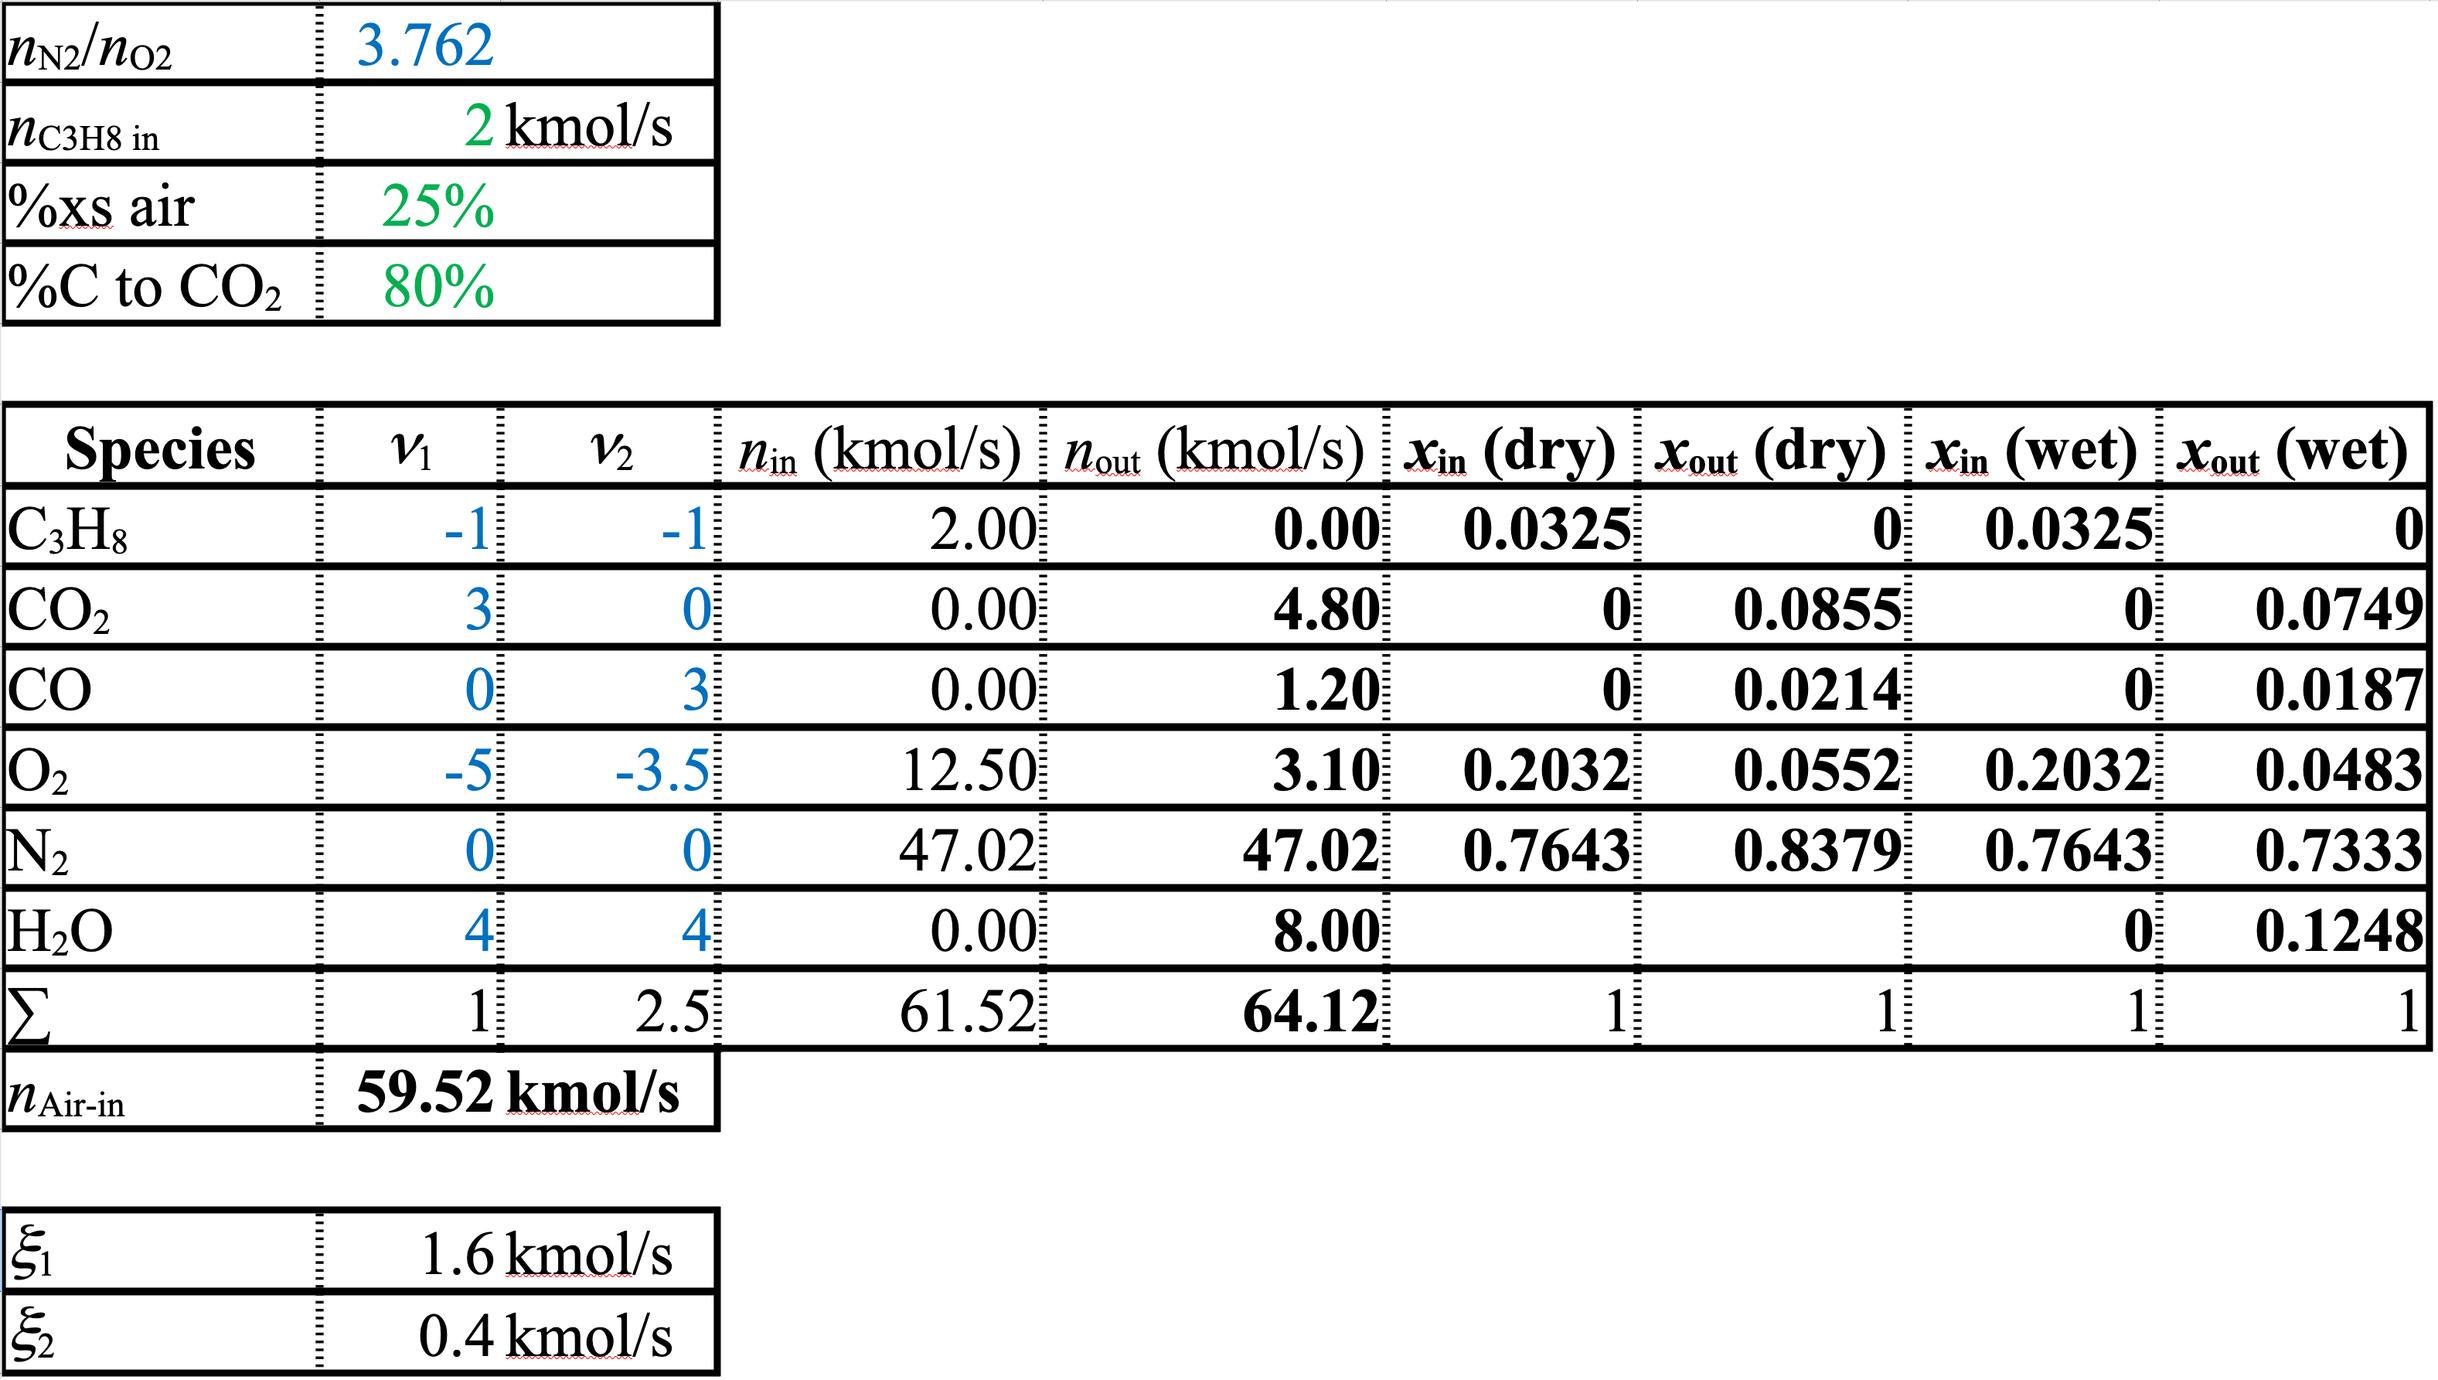
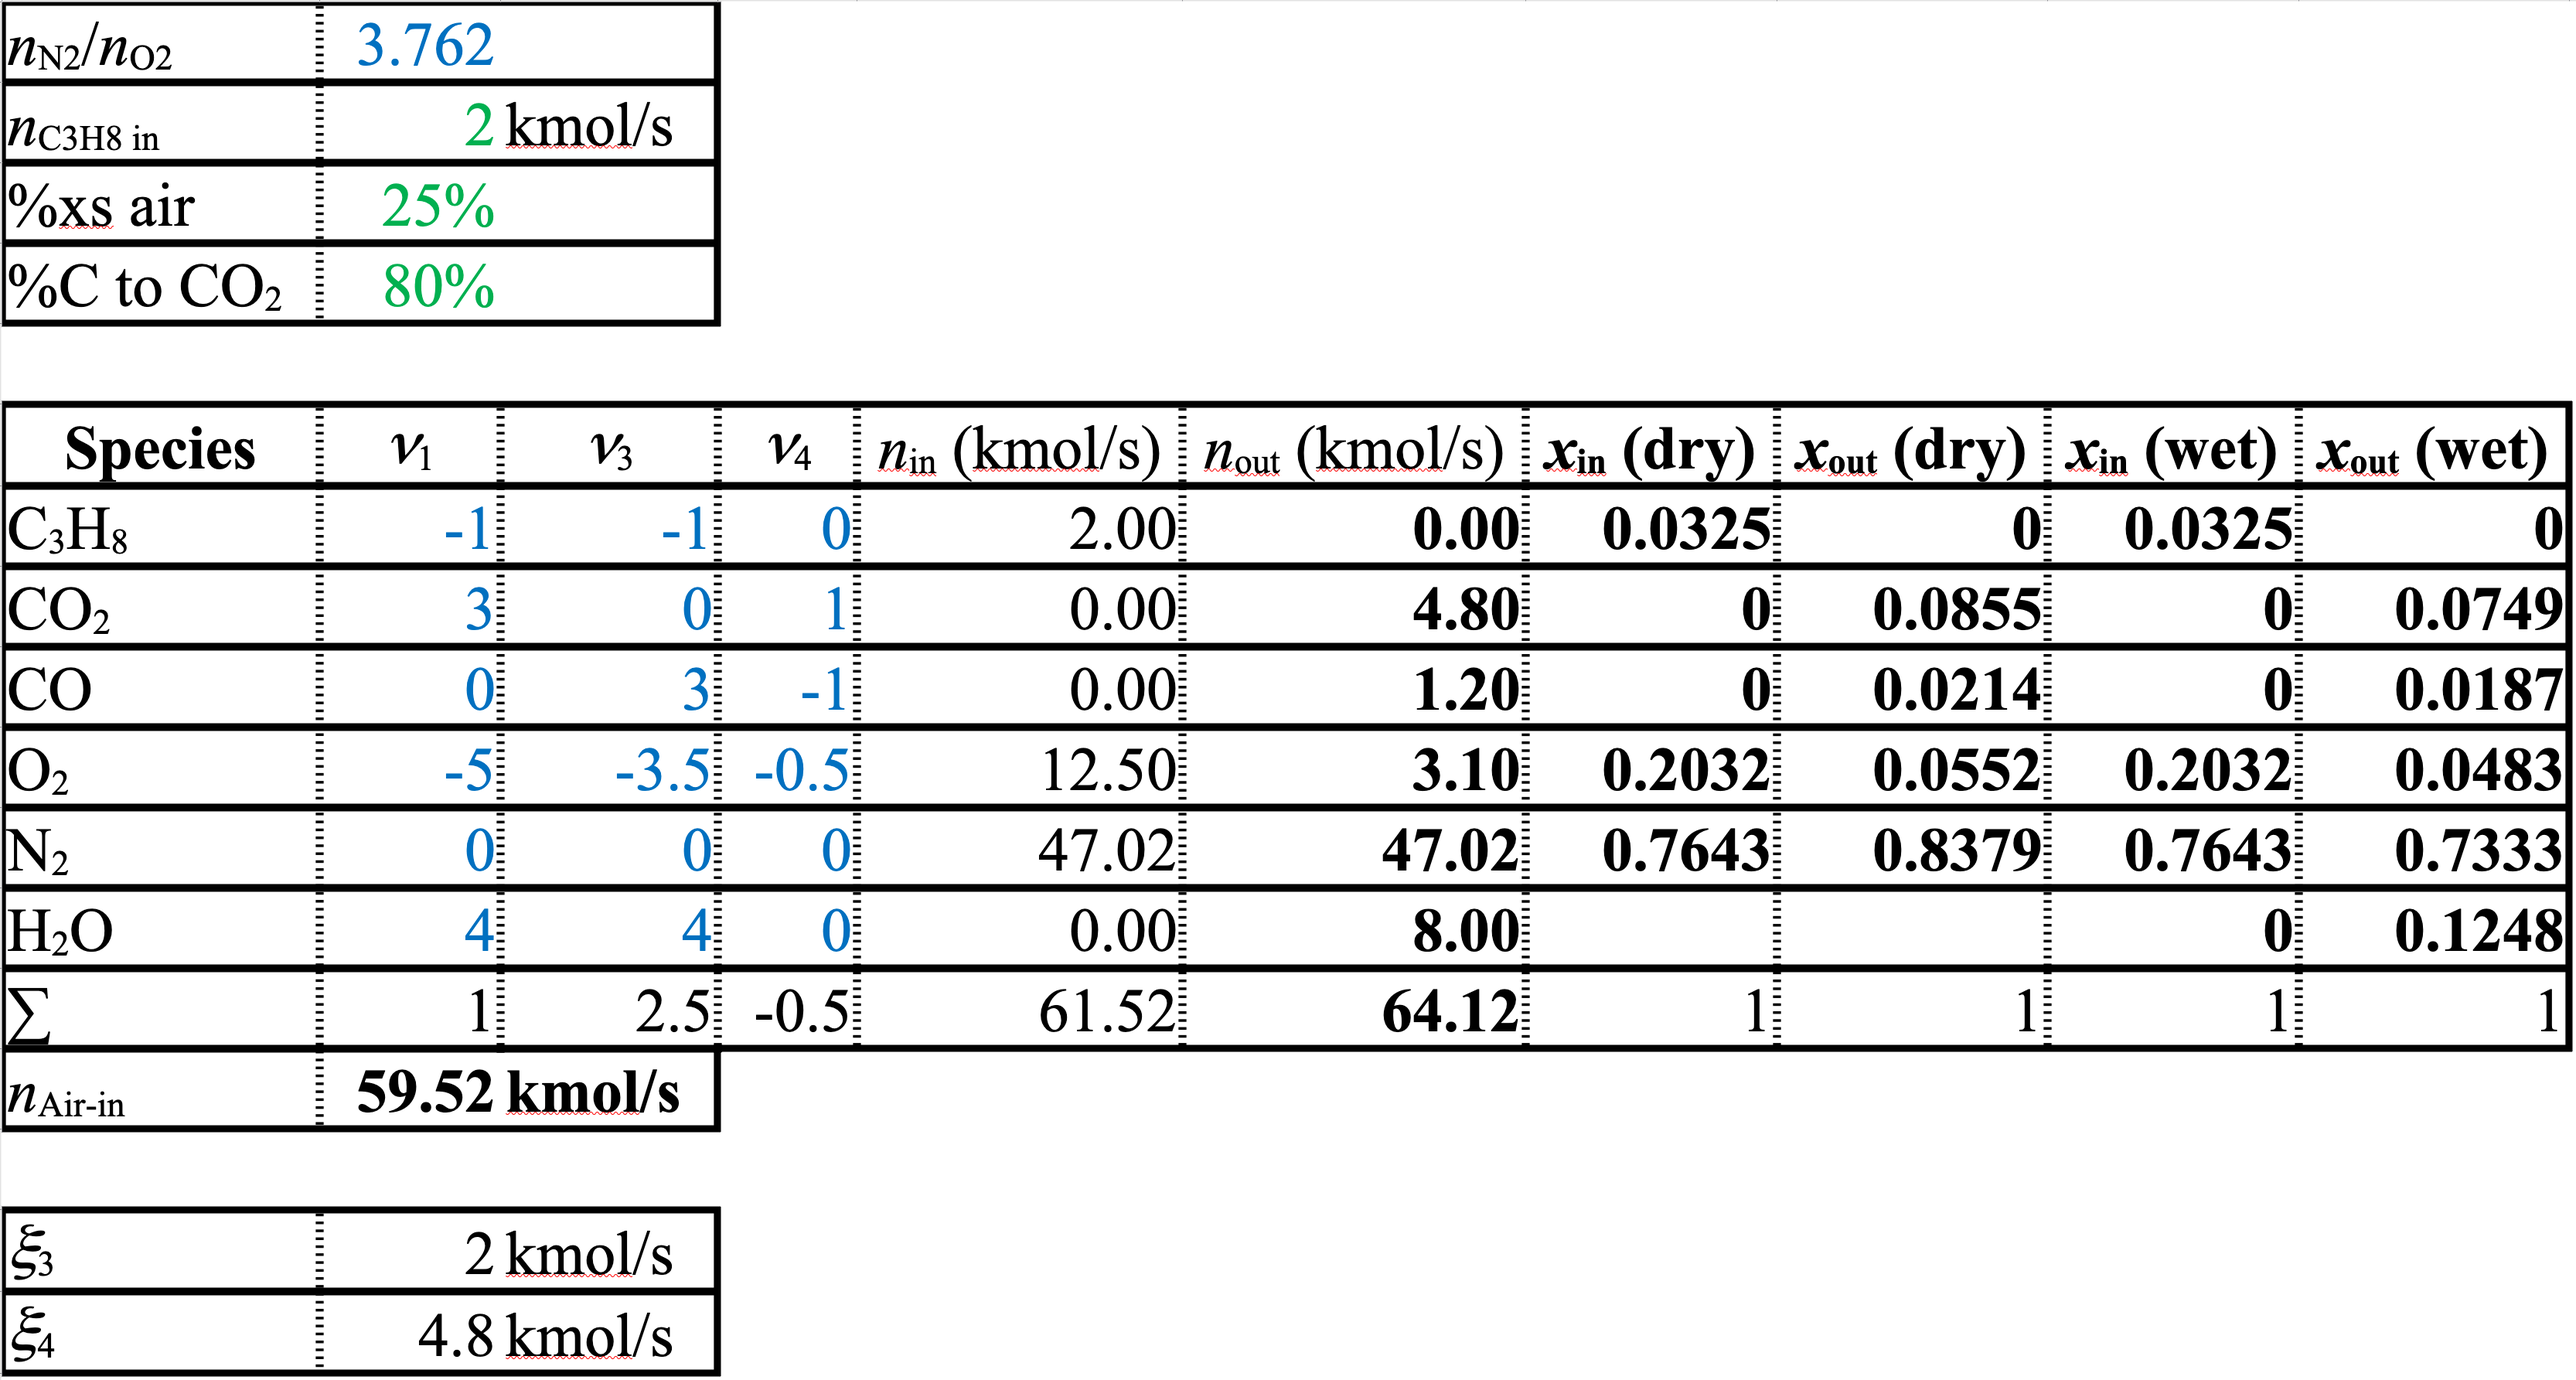
Built site for gh-pages

diff --git a/balances/material/CombRxnsPart2JTFVisuals.html b/balances/material/CombRxnsPart2JTFVisuals.html
@@ -190,7 +190,7 @@
 </div>
 <div class="fragment">
 <p><span class="math display">\[
-\dot{n}_\text{Air-in} = \dot{n}_\mathrm{O_2in} + \dot{n}_\mathrm{N_2in} = 12.5 + 47.0 = 59.5\ \mathrm{kmol/s}
+\dot{n}_\text{Air-in} = \dot{n}_\mathrm{O_2in} + \dot{n}_\mathrm{N_2in} = 12.5 + 47.0 = \boxed{  59.5\ \mathrm{kmol/s}}
 \]</span></p>
 </div>
 </section>
@@ -219,7 +219,7 @@
 </div>
 <div class="fragment">
 <p><span class="math display">\[
-\dot{n}_\mathrm{N_2out} = \dot{n}_\mathrm{N_2in} + 0 \boldsymbol{\cdot} \dot{\xi}_1 +0 \boldsymbol{\cdot}  \dot{\xi}_2 = 47.0\ \mathrm{kmol/s}
+\dot{n}_\mathrm{N_2out} = \dot{n}_\mathrm{N_2in} + 0 \boldsymbol{\cdot} \dot{\xi}_1 +0 \boldsymbol{\cdot}  \dot{\xi}_2 = \boxed{ 47.0\ \mathrm{kmol/s} }
 \]</span></p>
 </div>
 <div class="fragment">
@@ -248,22 +248,22 @@
 </div>
 <div class="fragment">
 <p><span class="math display">\[
-\implies \dot{n}_\mathrm{CO_2out} = 3 \boldsymbol{\cdot} 1.6\ \mathrm{kmol/s} = 4.8\ \mathrm{kmol/s},
+\implies \dot{n}_\mathrm{CO_2out} = 3 \boldsymbol{\cdot} 1.6\ \mathrm{kmol/s} = \boxed{ 4.8\ \mathrm{kmol/s} },
 \]</span></p>
 </div>
 <div class="fragment">
 <p><span class="math display">\[
-\dot{n}_\mathrm{COout} = 3 \boldsymbol{\cdot} 0.4\ \mathrm{kmol/s} = 1.2\ \mathrm{kmol/s}
+\dot{n}_\mathrm{COout} = 3 \boldsymbol{\cdot} 0.4\ \mathrm{kmol/s} = \boxed{ 1.2\ \mathrm{kmol/s} }
 \]</span></p>
 </div>
 <div class="fragment">
 <p><span class="math display">\[
-\dot{n}_\mathrm{O_2out} = 12.5\ \mathrm{kmol/s} - 5 \boldsymbol{\cdot} 1.6 - 3.5 \boldsymbol{\cdot} 0.4 = 3.10\ \mathrm{kmol/s}
+\dot{n}_\mathrm{O_2out} = 12.5\ \mathrm{kmol/s} - 5 \boldsymbol{\cdot} 1.6 - 3.5 \boldsymbol{\cdot} 0.4 = \boxed{ 3.10\ \mathrm{kmol/s} }
 \]</span></p>
 </div>
 <div class="fragment">
 <p><span class="math display">\[
-\dot{n}_\mathrm{H_2Oout} = 4 \boldsymbol{\cdot} 1.6 + 4 \boldsymbol{\cdot} 0.4 = 8.00\ \mathrm{kmol/s}
+\dot{n}_\mathrm{H_2Oout} = 4 \boldsymbol{\cdot} 1.6 + 4 \boldsymbol{\cdot} 0.4 = \boxed{ 8.00\ \mathrm{kmol/s} }
 \]</span></p>
 </div>
 </section>
@@ -351,25 +351,11 @@ x_{i\ (\mathrm{wet})} = \frac{\dot{n}_i}{\sum \dot{n}_j}
 </section>
 <section id="solution-cont.-7" class="slide level2">
 <h2>Solution (cont.)</h2>
-<p>To get the dry and wet compositions, divide the species molar flow rate by either the sum of the species molar flow rates minus the water flow rate, or by the sum of the species molar flow rates. The results are on the spreadsheet.</p>
-<div class="fragment">
-<p><span class="math display">\[
-x_{i\ (\mathrm{dry})} = \frac{\dot{n}_i}{(\sum \dot{n}_j) - \dot{n}_\mathrm{H_2O}}
-\]</span></p>
-</div>
-<div class="fragment">
-<p><span class="math display">\[
-x_{i\ (\mathrm{wet})} = \frac{\dot{n}_i}{\sum \dot{n}_j}
-\]</span></p>
-</div>
-</section>
-<section id="solution-cont.-8" class="slide level2">
-<h2>Solution (cont.)</h2>
 <p>A spreadsheet of the solution is shown below</p>
 
 <img data-src="CombExSpread34.png" class="r-stretch"><div style="font-size: 65px">
 <div class="fragment absolute" style="top: 72%; left: 33%; ">
-<p>The molar flows and the mole fractions or compositions are identical to those in the version with <a href="#/eq-1" class="quarto-xref">Equation&nbsp;1</a> and <a href="#/eq-2" class="quarto-xref">Equation&nbsp;2</a>. However, the stoichiometric coefficients and extents of reaction are different.As long as you set up a linearly independent balanced set of equations that uses all of the species, it doesn’t matter what set you use. The flows and compositions will all come out the same.</p>
+<p>The stoichiometric coefficients and extents of reaction are different from the first spreadsheet. However, The molar flows and the mole fractions or compositions are identical to those in the version with <a href="#/eq-1" class="quarto-xref">Equation&nbsp;1</a> and <a href="#/eq-2" class="quarto-xref">Equation&nbsp;2</a>. As long as you set up a linearly independent balanced set of equations that uses all of the species, it doesn’t matter what set you use. The flows and compositions will all come out the same.</p>
 </div>
 </div>
 </section>
